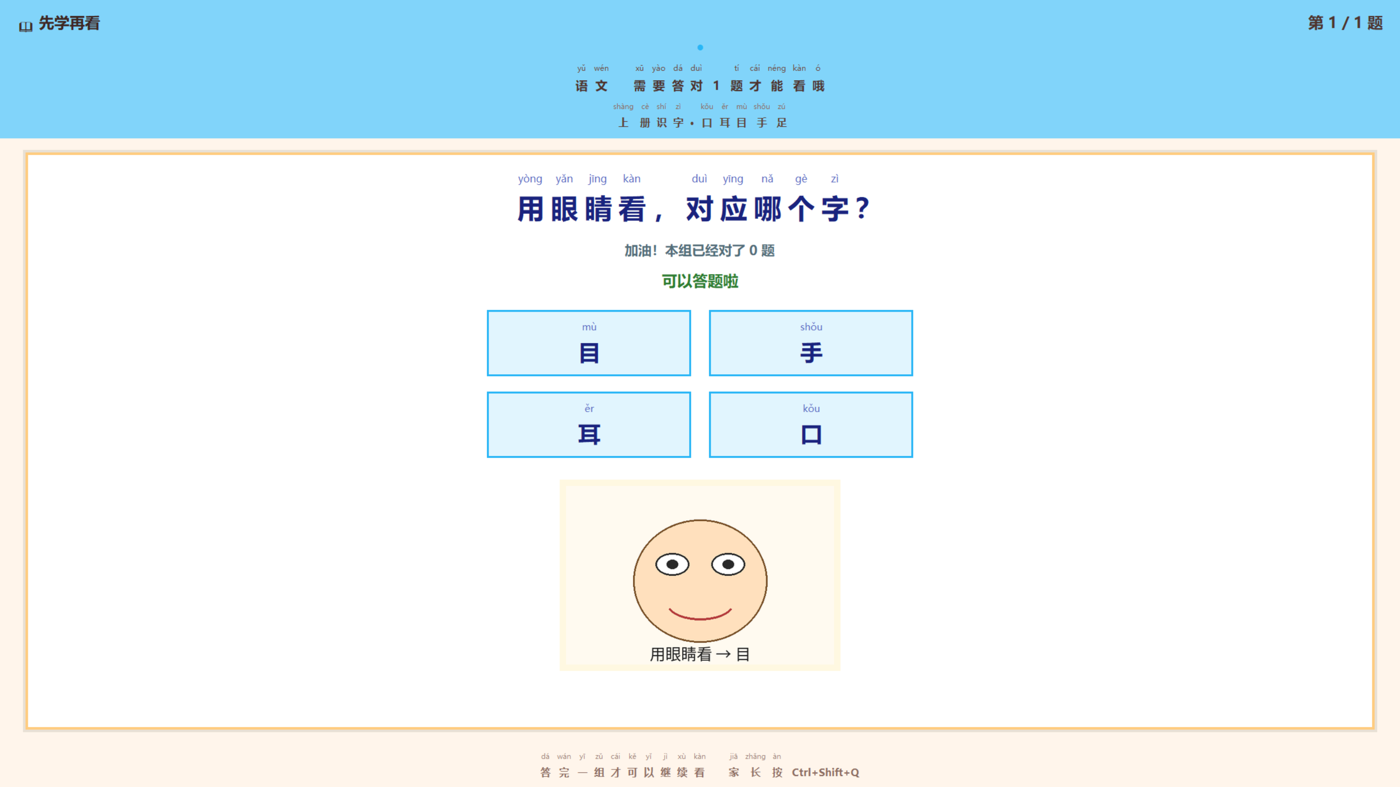
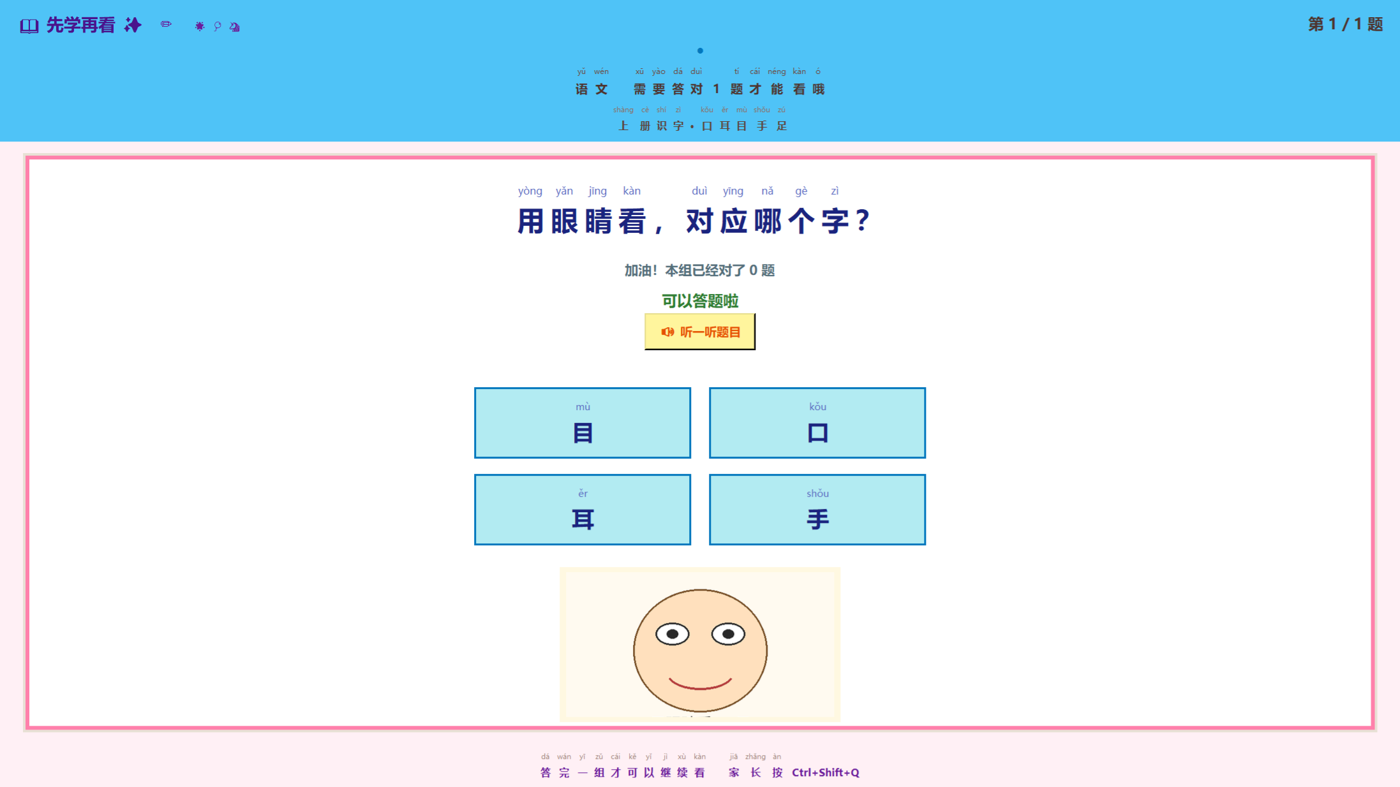
docs: 更新 README 答题界面、统计图表与错题本截图

diff --git a/scripts/capture_readme_shots.py b/scripts/capture_readme_shots.py
@@ -1,5 +1,5 @@
 # -*- coding: utf-8 -*-
-"""Capture clean README screenshots (one illustrated question per subprocess)."""
+"""Capture clean README screenshots (quiz window + admin pages)."""
 from __future__ import annotations
 
 import json
@@ -11,17 +11,99 @@ from pathlib import Path
 ROOT = Path(__file__).resolve().parents[1]
 
 WANT = [
-    ("quiz-math.png", 1),       # 3+2 illustration
+    ("quiz-math.png", 172),     # shape / ball illustration
     ("quiz-animals.png", 54),   # cat / en_animals
-    ("quiz-chinese.png", 25),   # 目 / yuwen_mu (simple illustrated)
+    ("quiz-chinese.png", 25),   # mu / yuwen_mu
 ]
+
+ADMIN_SHOTS = (
+    "admin-login.png",
+    "admin-stats.png",
+    "admin-wrongbook.png",
+)
+
+
+def _optimize_image(path: Path, max_w: int = 1400, max_h: int = 1800, crop_ultrawide: bool = False) -> None:
+    from PIL import Image
+
+    shot = Image.open(path).convert("RGB")
+    w, h = shot.size
+    # Window-grabbed quiz shots and admin pages should not be side-cropped.
+    if crop_ultrawide and w / max(h, 1) > 2.0:
+        shot = shot.crop((int(w * 0.12), 0, int(w * 0.88), h))
+        w, h = shot.size
+    if h > max_h:
+        shot = shot.crop((0, 0, w, max_h))
+        w, h = shot.size
+    if w > max_w:
+        ratio = max_w / w
+        shot = shot.resize((max_w, int(h * ratio)))
+    path.parent.mkdir(parents=True, exist_ok=True)
+    shot.save(path, format="PNG", optimize=True)
+    print(f"saved {path} bytes={path.stat().st_size} dim={shot.size}", flush=True)
+
+
+def grab_tk_window(win):
+    """Capture a Tk window via PrintWindow (ImageGrab is black on high-DPI)."""
+    import ctypes
+    from ctypes import wintypes
+    from PIL import Image
+
+    user32 = ctypes.windll.user32
+    gdi32 = ctypes.windll.gdi32
+    hwnd = int(win.winfo_id())
+    hwnd = user32.GetAncestor(hwnd, 2) or hwnd
+    rect = wintypes.RECT()
+    user32.GetWindowRect(hwnd, ctypes.byref(rect))
+    w = rect.right - rect.left
+    h = rect.bottom - rect.top
+    if w <= 1 or h <= 1:
+        raise RuntimeError(f"invalid window rect {w}x{h}")
+    hwnd_dc = user32.GetWindowDC(hwnd)
+    src_dc = gdi32.CreateCompatibleDC(hwnd_dc)
+    bmp = gdi32.CreateCompatibleBitmap(hwnd_dc, w, h)
+    gdi32.SelectObject(src_dc, bmp)
+    ok = user32.PrintWindow(hwnd, src_dc, 2)
+    if not ok:
+        user32.PrintWindow(hwnd, src_dc, 0)
+
+    class BITMAPINFOHEADER(ctypes.Structure):
+        _fields_ = [
+            ("biSize", wintypes.DWORD),
+            ("biWidth", ctypes.c_long),
+            ("biHeight", ctypes.c_long),
+            ("biPlanes", wintypes.WORD),
+            ("biBitCount", wintypes.WORD),
+            ("biCompression", wintypes.DWORD),
+            ("biSizeImage", wintypes.DWORD),
+            ("biXPelsPerMeter", ctypes.c_long),
+            ("biYPelsPerMeter", ctypes.c_long),
+            ("biClrUsed", wintypes.DWORD),
+            ("biClrImportant", wintypes.DWORD),
+        ]
+
+    class BITMAPINFO(ctypes.Structure):
+        _fields_ = [("bmiHeader", BITMAPINFOHEADER)]
+
+    bmi = BITMAPINFO()
+    bmi.bmiHeader.biSize = ctypes.sizeof(BITMAPINFOHEADER)
+    bmi.bmiHeader.biWidth = w
+    bmi.bmiHeader.biHeight = -h
+    bmi.bmiHeader.biPlanes = 1
+    bmi.bmiHeader.biBitCount = 32
+    buf = ctypes.create_string_buffer(w * h * 4)
+    gdi32.GetDIBits(src_dc, bmp, 0, h, buf, ctypes.byref(bmi), 0)
+    im = Image.frombuffer("RGB", (w, h), buf, "raw", "BGRX", 0, 1).copy()
+    gdi32.DeleteObject(bmp)
+    gdi32.DeleteDC(src_dc)
+    user32.ReleaseDC(hwnd, hwnd_dc)
+    return im
 
 
 def capture_child(out_dir: str, filename: str, qid: int) -> None:
     """Child entry: show one quiz and save PNG."""
     sys.path.insert(0, str(ROOT))
     import tkinter as tk
-    from PIL import ImageGrab
     from studyonpc import bank as bank_mod
     from studyonpc import quiz_ui
     from studyonpc import rules as rules_mod
@@ -47,7 +129,7 @@ def capture_child(out_dir: str, filename: str, qid: int) -> None:
         "wrong_streak": 0,
         "recent_ids": [],
     }
-    bank_mod.pick_set = lambda questions, n, recent: [q]  # type: ignore
+    bank_mod.pick_set = lambda questions, n, recent, prefer_ids=None, **kwargs: [q]  # type: ignore
 
     runner = quiz_ui.QuizSetRunner(
         root=root,
@@ -61,24 +143,19 @@ def capture_child(out_dir: str, filename: str, qid: int) -> None:
     runner.start()
 
     # Paint + wait for answer gate ("可以答题啦")
-    end = time.time() + 2.5
+    end = time.time() + 3.0
     while time.time() < end:
         root.update()
         time.sleep(0.05)
 
-    shot = ImageGrab.grab()
-    w, h = shot.size
-    if w / max(h, 1) > 1.8:
-        shot = shot.crop((int(w * 0.12), 0, int(w * 0.88), h))
-    max_w = 1400
-    if shot.width > max_w:
-        ratio = max_w / shot.width
-        shot = shot.resize((max_w, int(shot.height * ratio)))
+    if runner._win is None:
+        raise RuntimeError("quiz window missing")
+    shot = grab_tk_window(runner._win)
     out = Path(out_dir)
     out.mkdir(parents=True, exist_ok=True)
     path = out / filename
-    shot.convert("RGB").save(path, format="PNG", optimize=True)
-    print(f"saved {path} bytes={path.stat().st_size} dim={shot.size}", flush=True)
+    shot.convert("RGB").save(path, format="PNG")
+    _optimize_image(path)
 
     try:
         if runner._win is not None:
@@ -91,9 +168,68 @@ def capture_child(out_dir: str, filename: str, qid: int) -> None:
         pass
 
 
+def _admin_password() -> str:
+    cfg_path = ROOT / "config.json"
+    if not cfg_path.exists():
+        return ""
+    cfg = json.loads(cfg_path.read_text(encoding="utf-8"))
+    return str(cfg.get("admin_password") or cfg.get("parent_pin") or "")
+
+
+def capture_admin(out_dir: str) -> None:
+    """Capture login / stats / wrong-book from the running admin server."""
+    from playwright.sync_api import sync_playwright
+
+    password = _admin_password()
+    if not password:
+        print("skip admin screenshots: no local admin password", flush=True)
+        return
+
+    out = Path(out_dir)
+    out.mkdir(parents=True, exist_ok=True)
+
+    with sync_playwright() as p:
+        browser = p.chromium.launch(headless=True, channel="chrome")
+        page = browser.new_page(viewport={"width": 1440, "height": 780})
+        page.goto("http://127.0.0.1:8099/admin", wait_until="domcontentloaded", timeout=20000)
+        page.wait_for_selector("#pw", timeout=10000)
+        page.wait_for_timeout(300)
+        login_path = out / "admin-login.png"
+        page.screenshot(path=str(login_path), full_page=False)
+        _optimize_image(login_path, max_h=800)
+        page.set_viewport_size({"width": 1440, "height": 1100})
+
+        page.fill("#pw", password)
+        page.click("#login .btn")
+        page.wait_for_selector("#panel", state="visible", timeout=10000)
+        page.wait_for_timeout(400)
+
+        page.click("button[data-tab='stats']")
+        page.wait_for_selector("#tab-stats", state="visible")
+        page.click("#statsRangeMonth")
+        page.wait_for_timeout(900)
+        stats_path = out / "admin-stats.png"
+        page.screenshot(path=str(stats_path), full_page=True)
+        _optimize_image(stats_path, max_h=1700)
+
+        page.click("button[data-tab='wrongbook']")
+        page.wait_for_selector("#tab-wrongbook", state="visible")
+        page.wait_for_timeout(700)
+        wb_path = out / "admin-wrongbook.png"
+        page.screenshot(path=str(wb_path), full_page=False)
+        _optimize_image(wb_path, max_h=1200)
+
+        browser.close()
+    print("ADMIN_OK", flush=True)
+
+
 def main() -> None:
     if len(sys.argv) >= 4 and sys.argv[1] == "--one":
         capture_child(sys.argv[2], sys.argv[3], int(sys.argv[4]))
+        return
+    if len(sys.argv) >= 2 and sys.argv[1] == "--admin":
+        out_dir = sys.argv[2] if len(sys.argv) > 2 else str(ROOT / "docs" / "screenshots")
+        capture_admin(out_dir)
         return
 
     out_dir = sys.argv[1] if len(sys.argv) > 1 else str(ROOT / "docs" / "screenshots")
@@ -108,6 +244,9 @@ def main() -> None:
         if r.returncode != 0:
             raise SystemExit(f"capture failed for {name}: {r.returncode}")
         time.sleep(0.5)
+    r = subprocess.run([py, script, "--admin", out_dir], cwd=str(ROOT), check=False)
+    if r.returncode != 0:
+        raise SystemExit(f"admin capture failed: {r.returncode}")
     print("ALL_OK")
 
 

diff --git a/README.md b/README.md
@@ -8,11 +8,11 @@
 
 ## 界面预览
 
-全屏答题界面（带拼音标注 + 插图），答对够题数才解锁观看时长：
+全屏答题界面（童趣配色 + 拼音标注 + 插图 +「听一听」），答对够题数才解锁观看时长：
 
-![数学加减插图题](docs/screenshots/quiz-math.png)
+![数学图形插图题](docs/screenshots/quiz-math.png)
 
-*数学 · 5 以内加减（插图题）*
+*数学 · 认识图形（插图题）*
 
 ![英语动物单元插图题](docs/screenshots/quiz-animals.png)
 
@@ -22,10 +22,24 @@
 
 *语文 · 口耳目手足（插图题）*
 
+家长管理页（同一 WiFi 打开 `http://电脑IP:8099/admin`）：登录后可查看用量统计图表，以及并排显示「错选 / 正解」的错题本。
+
+![家长管理登录](docs/screenshots/admin-login.png)
+
+*管理页登录*
+
+![用量统计图表](docs/screenshots/admin-stats.png)
+
+*统计 · 观看时长、正确率、科目与加时（按月）*
+
+![错题本错选与正解](docs/screenshots/admin-wrongbook.png)
+
+*错题本 · 并排显示错选和正解*
+
 ## 多站点与语音（v1）
 
 - **多站点 `sites[]`**：共享解锁余额；每个站点独立关键词、每组解锁分钟、每日上限、题数与及格线。旧配置的 `youtube_keywords` 会自动迁移成一个 YouTube 站点。
-- **家长管理页** `/admin`：可编辑站点、规则、题库；「今日加时」增加共享余额并抬高今日有效上限；看满每日上限后可「大闯关」（固定 5 题，按 pass_ratio 约需对 4 题，过关加时 10 分钟）；可开关火山引擎 TTS。
+- **家长管理页** `/admin`：可编辑站点、规则、题库；「今日加时」增加共享余额并抬高今日有效上限；看满每日上限后可「大闯关」（固定 5 题，按 pass_ratio 约需对 4 题，过关加时 10 分钟）；日/周/月统计图表；错题本并排列出错选与正解，未掌握题会优先重练；可开关火山引擎 TTS。
 - **答题页「听一听」**：调用火山 / 字节跳动 openspeech **TTS V3 SSE**（`api_key` 只写在本地 `config.json`，示例见 `config.example.json`）。与 [CaptainChen](https://github.com/yuefengkai/CaptainChen) 同源协议。
 - 答题界面更童趣：更亮的配色、贴纸装饰、更大的选项按钮。
 
@@ -57,7 +71,7 @@ cd C:\path\to\StudyOnPC
 
 > onefile 启动时会解压到临时目录，冷启动比 onedir 稍慢；日常使用仍只需分发这一个 exe。
 
-家长管理页（同一 WiFi）：`http://电脑IP:8099/` 与 `/admin`（卡片仪表盘、规则、题库、强制出题、答题记录）。
+家长管理页（同一 WiFi）：`http://电脑IP:8099/` 与 `/admin`（卡片仪表盘、规则、题库、统计图表、错题本、强制出题、答题记录）。
 
 
 ## 家长必读
